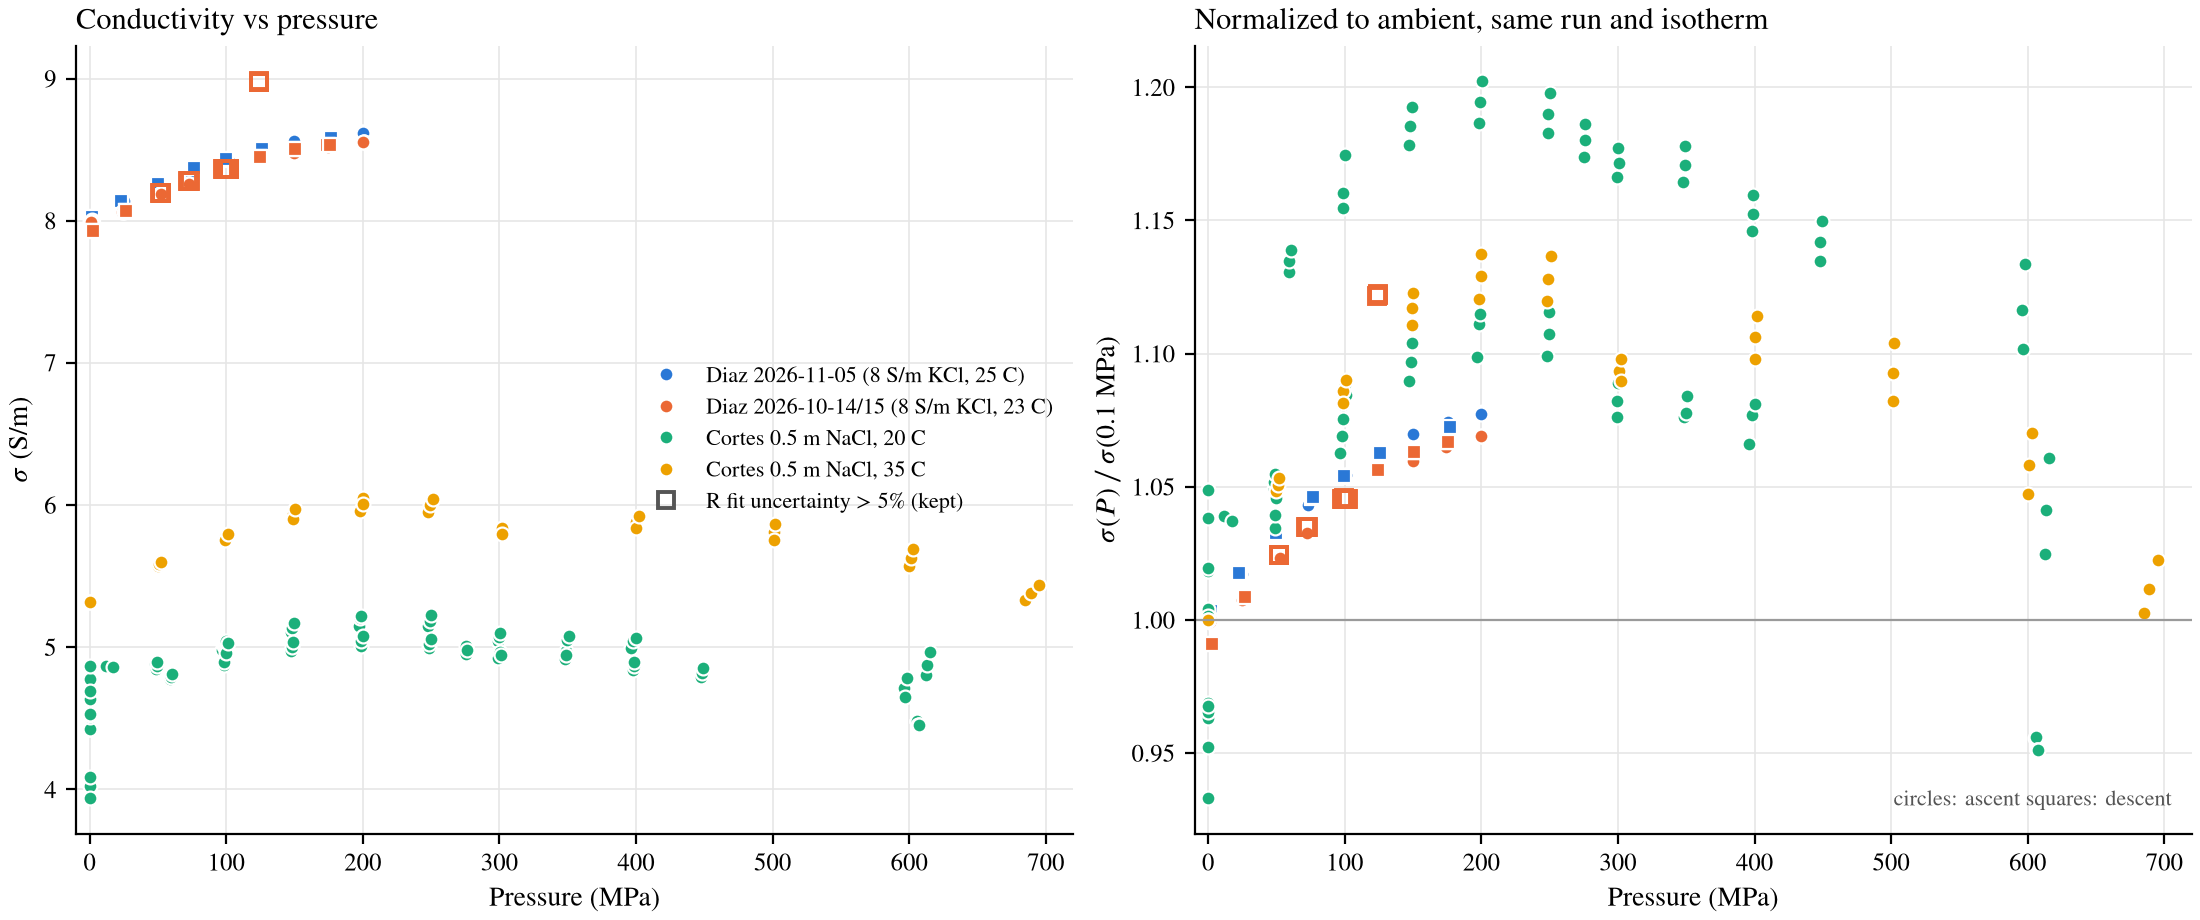
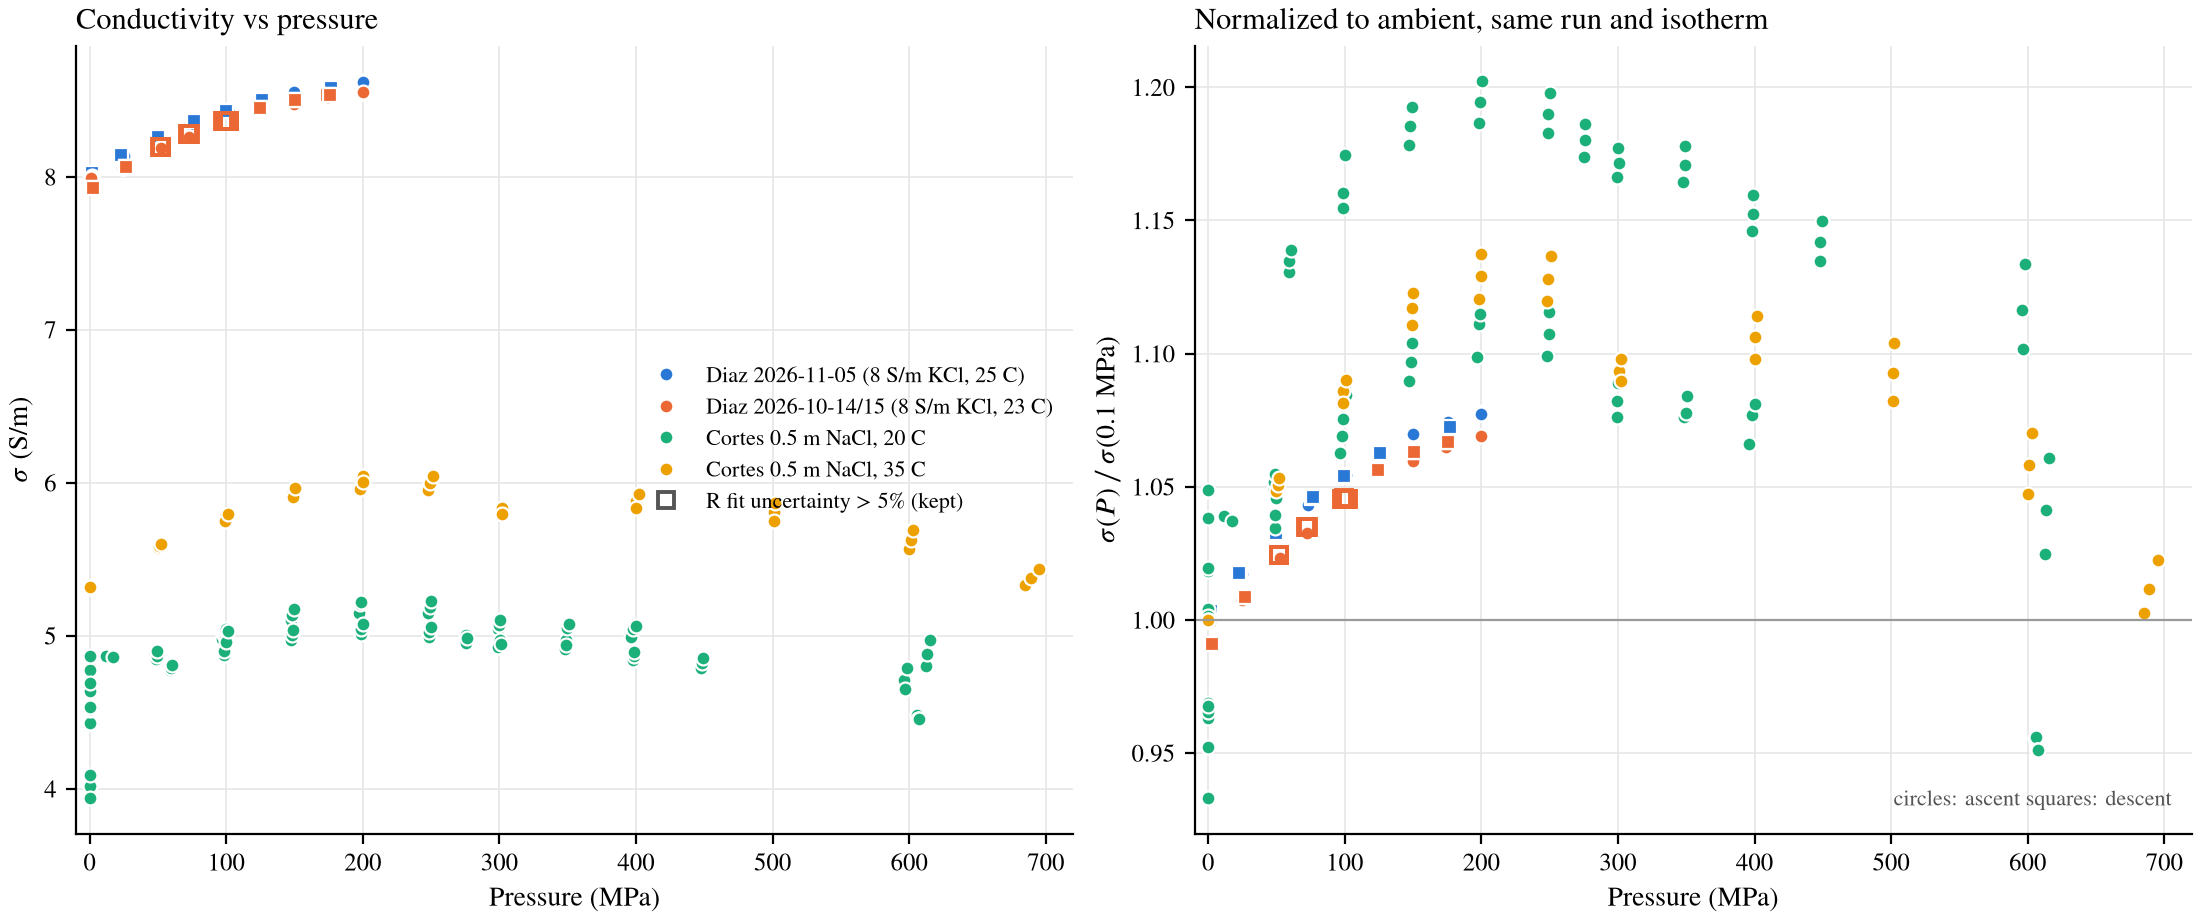
Exclude the Oct 14 124 MPa fit-jump triplet
The only off-trend group in the Oct 14-15 8 S/m KCl sigma(P) run (+6.6%),
a CPE fit jump like Nov 5's. Configs written for 20261014/20261015.

diff --git a/plans/STATUS.md b/plans/STATUS.md
@@ -54,6 +54,7 @@ lab data merged in from origin/main. PR #3 (still open) now carries all of it.
 | Garrity RoseData (2026-02-19) provisional fit | claude-code | implemented, unverified | cortes2026/garrity/fit_rosedata.py; notebook (cortes2026/garrity/LABNOTES.md) shows M = mol/L; cell-constant standard and Default triplet still open; not merged into Cortes |
 | Lab notebooks transcribed (Diaz pp. 11-27, Garrity pp. 1-8) | claude-code | verified | cortes2026/diaz/LABNOTES.md, cortes2026/garrity/LABNOTES.md from labnotes/ photos |
 | Nov 5 2026 run complete (51 sweeps); 5 fit-jump sweeps excluded (Steve) | claude-code | verified | data/20261105/zAnalysis20261105.csv (5 exclude=x, 51 rows kept); standard_sigma_P_vs_cortes.png inspected |
+| Oct 14 124 MPa fit-jump triplet excluded (Steve); Oct 14/15 configs written | claude-code | verified | data/20261014/zAnalysis20261014.csv (3 exclude=x, 36 rows), 20261015 (15 rows); standard_sigma_P_vs_cortes.png inspected |
 | Oct 5-9 identities | claude-code | verified | from Diaz notebook: Oct 5 80 mS KCl std 1 atm; Oct 6-9 ~5 wt% NaCl sigma(P) (cortes2026/diaz/LABNOTES.md) |
 | Garrity NaCl:MgSO4 Gamry runs (Jun 18/22/24) identified, not analysed | claude-code | not implemented | sweep times in LABNOTES.md p. 7 |
 | Contributor folders cortes2026/diaz, cortes2026/garrity | claude-code | verified | READMEs in each |

diff --git a/cortes2026/diaz/README.md b/cortes2026/diaz/README.md
@@ -59,3 +59,19 @@ decision.
 
 Note also that the Oct 15 return to 2 MPa reads 0.9% below the Oct 14
 start, while Nov 5 retraces within 0.3% at 76–126 MPa.
+
+### Exclusions (Steve, 2026-11-05)
+
+Excluded in the zAnalysis configs (rows kept, `exclude = x`, reason in notes):
+
+| Run | Sweeps | Production σ vs curve |
+|---|---|---|
+| Nov 5 | 14:25, 14:26 (177 MPa); 14:49–14:51 (152 MPa) | +2.3% |
+| Oct 14 | 13:37–13:39 (124 MPa) | +6.6% |
+
+These are the only off-trend points in either run. In both cases the raw
+spectrum stays on the curve (phase-zero |Z|), and a chained-guess refit
+removes the jump. So the "spontaneous" excursions come from the fit, not
+the system. The 12 other Oct 14–15 sweeps with ~5% fit uncertainty sit on
+the curve and are kept. `data/20261014` and `20261015` now have configs
+(KCl; K from the first three Oct 14 sweeps, which also calibrate Oct 15).

diff --git a/coordination/audit.md b/coordination/audit.md
@@ -504,3 +504,4 @@ or delete existing entries. Format is defined in `AGENTS.md`.
 - Merged origin/main (last 9 Nov 5 sweeps, 50 -> 2 MPa). Added to config as KCl standard.
 - Steve: omit the Nov 5 outliers -> asked which; Steve chose all five fit-jump sweeps (14:25, 14:26, 14:49-14:51). exclude=x with reason; rows kept.
 - Transcribed Diaz (pp. 11-27) and Garrity (pp. 1-8) notebooks into cortes2026/{diaz,garrity}/LABNOTES.md. Settles: Oct 5-9 identities; Rose's M = mol/L; Rose's Jun 18-24 mixture runs identified by sweep time.
+- Steve: Oct 14-15 has similar outliers. Only off-trend group is the 124 MPa triplet (13:37-13:39, +6.6%); excluded with reason. Wrote zAnalysis configs for 20261014/20261015 (KCl).
